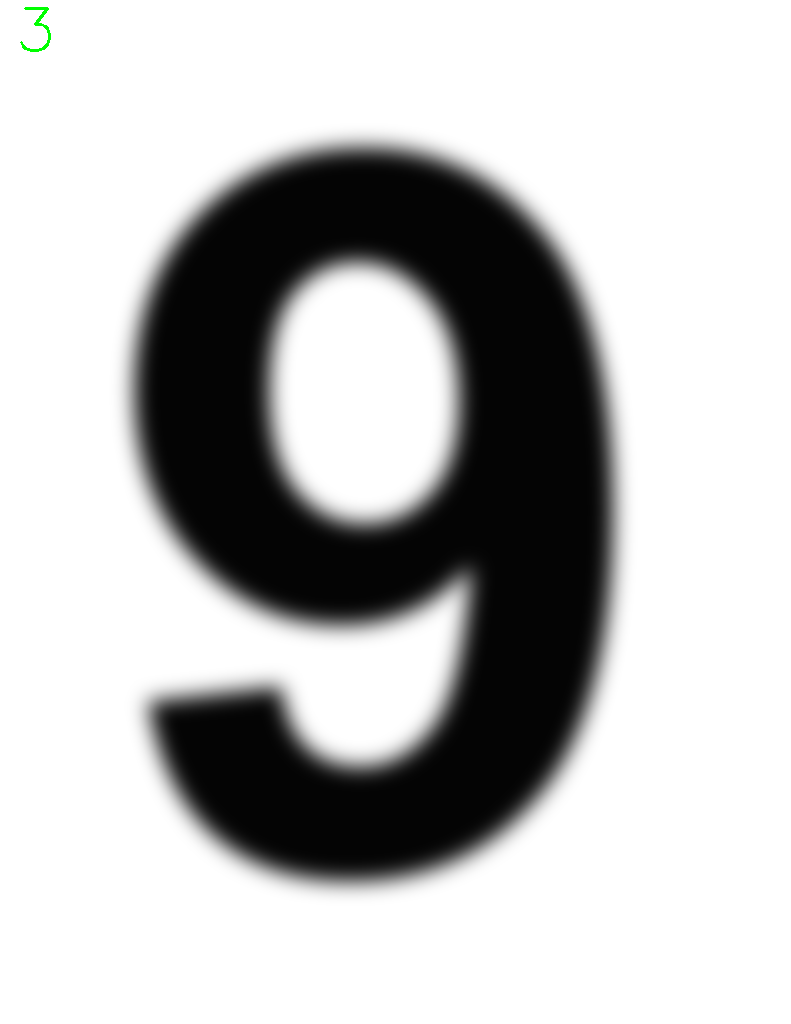
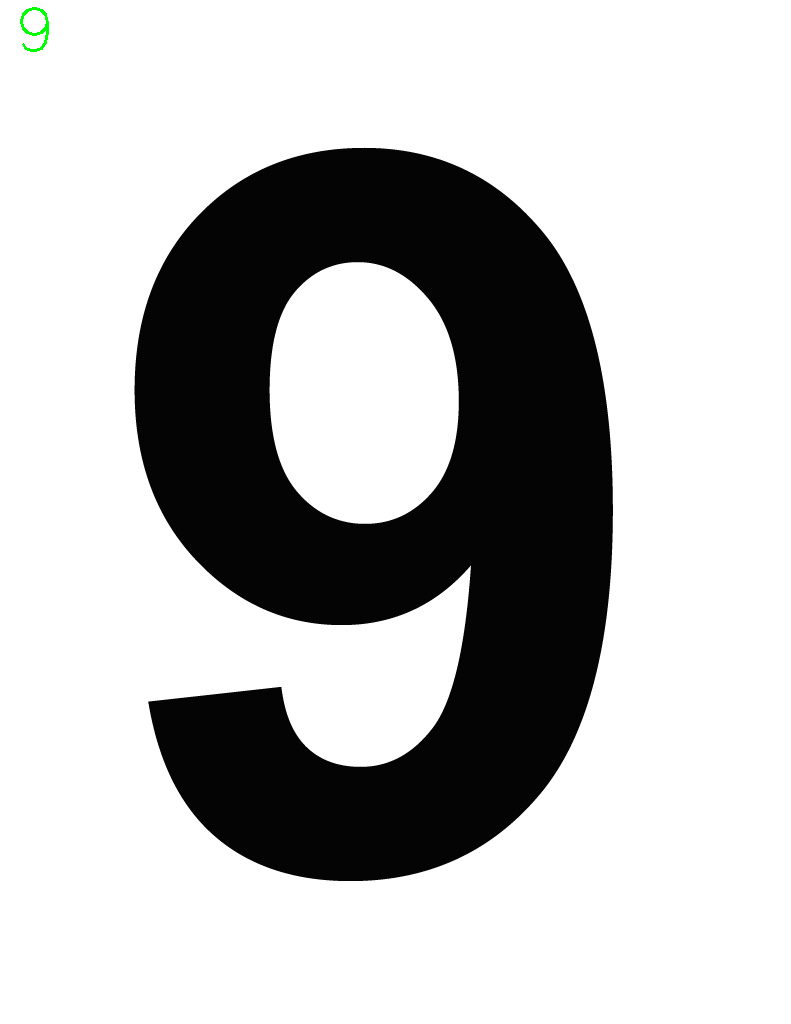
Model needs tweeking

Changed region(s): [[0.1517, 0.125, 0.7889, 0.875], [0.3034, 0.2188, 0.6068, 0.5312], [0.0303, 0.0, 0.0607, 0.0625]]

diff --git a/echo-server.py b/echo-server.py
@@ -1,5 +1,6 @@
 # echo-server.py
-
+import time
+import sys
 import socket
 import io
 from tkinter import filedialog
@@ -29,6 +30,7 @@ HOST = "127.0.0.1" #Localhost
 PORT = 4567  # Port to listen on (non-privileged ports are > 1023)
 BUFFER_SIZE = 4096
 
+
 server = socket.socket(socket.AF_INET, socket.SOCK_STREAM)
 server.bind((HOST, PORT))
 server.listen()
@@ -37,7 +39,7 @@ server.listen()
 client, addr = server.accept()
 file_stream = io.BytesIO()
 recv_data = client.recv(BUFFER_SIZE)
-        
+start = time.time()   
 while recv_data:
     file_stream.write(recv_data)
     recv_data = client.recv(BUFFER_SIZE)
@@ -46,13 +48,15 @@ while recv_data:
           break
 
 image = Image.open(file_stream)
-image = image.filter(ImageFilter.GaussianBlur(radius=10))
+#image = image.filter(ImageFilter.GaussianBlur(radius=10)) Line caused AI error
 image.save('clientfiles/'+image_name, format = 'PNG')
 
+end = time.time() 
+
+print("Total time of initial data retrieval: " + str(end-start)+" seconds.")
 
 
-
-
+start1 = time.time()
 # inferencing on CPU
 device = 'cpu'
 # initialize the VGG11 model
@@ -74,25 +78,34 @@ image1 = transform(image1)
 image1 = image1.unsqueeze(0).to(device)
     # forward pass the image through the model
 outputs = model(image1)
+end = time.time()
+print("Model processing time: " + str(end-start1)+ " seconds.")
     # get the index of the highest score
     # the highest scoring indicates the label for the Digit MNIST dataset
 label = np.array(outputs.detach()).argmax()
-print(f"{'clientfiles/pythonimage.png'.split('/')[-1].split('.')[0]}: {label}")
+original_stdout = sys.stdout # Save a reference to the original standard output
+start2 = time.time()
+with open('clientfiles/output.txt', 'w') as file:
+    sys.stdout = file
+    print(f"{'pythonimage'}: {label}")
+    sys.stdout = original_stdout
+file.close()
     # put the predicted label on the original image
-cv2.putText(orig_img, str(label), (15, 50), cv2.FONT_HERSHEY_SIMPLEX, 
-                2, (0, 255, 0), 2)
+#cv2.putText(orig_img, str(label), (15, 50), cv2.FONT_HERSHEY_SIMPLEX, 
+              #  2, (0, 255, 0), 2)
     # show and save the resutls
-cv2.imshow('Result', orig_img)
-cv2.waitKey(0)
-cv2.imwrite(f"clientfiles/edited.png", orig_img)
+#@cv2.imshow('Result', orig_img)
+#cv2.waitKey(0)
+#cv2.imwrite(f"clientfiles/edited.png", orig_img)
 
-with open('clientfiles/'+image_name, 'rb') as file:
+with open('clientfiles/output.txt', 'rb') as file:
     file_data = file.read(BUFFER_SIZE)
     while file_data:
         client.send(file_data)
         file_data = file.read(BUFFER_SIZE)
 client.send(b"%IMAGE_COMPLETED%")
 file.close()
+
     #with conn:
      #   print(f"Connected by {addr}")
       #  while True:
@@ -100,5 +113,8 @@ file.close()
           #  if not data:
            #     break
           #  conn.sendall(data)
-client.close()
-server.close()
+#client.close()
+#server.close()
+end = time.time()
+print("Text file transfer time: " + str(end-start2)+" seconds.")
+print("Runtime: "+str(end-start)+" seconds.")

diff --git a/echo-client.py b/echo-client.py
@@ -2,7 +2,7 @@
 import time
 import socket
 
-start = time.time()
+
 BUFFER_SIZE = 4096
 #HOST = "192.168.1.154"  # The server's hostname or IP address
 HOST = "127.0.0.1" #Localhost if needed 
@@ -18,7 +18,7 @@ with open('documents/9.png', 'rb') as file:
     while file_data:
         client_socket.send(file_data)
         file_data = file.read(BUFFER_SIZE)
-
+start = time.time()
 client_socket.send(b"%IMAGE_COMPLETED%")
 
 #Receives Modified Image Scored by AI
